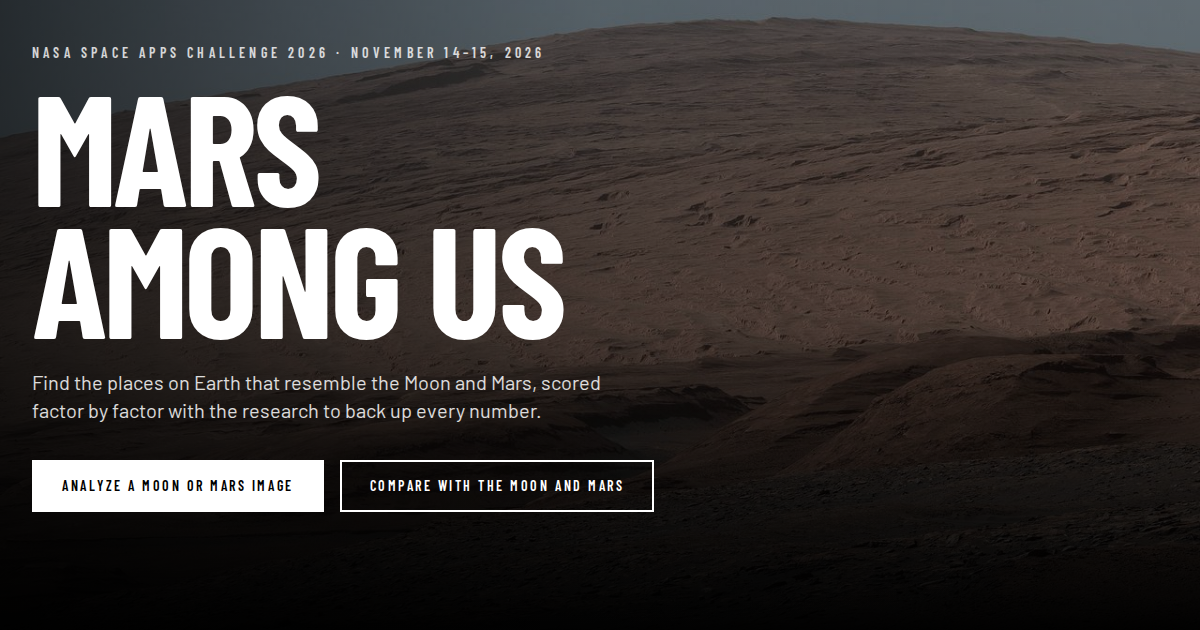
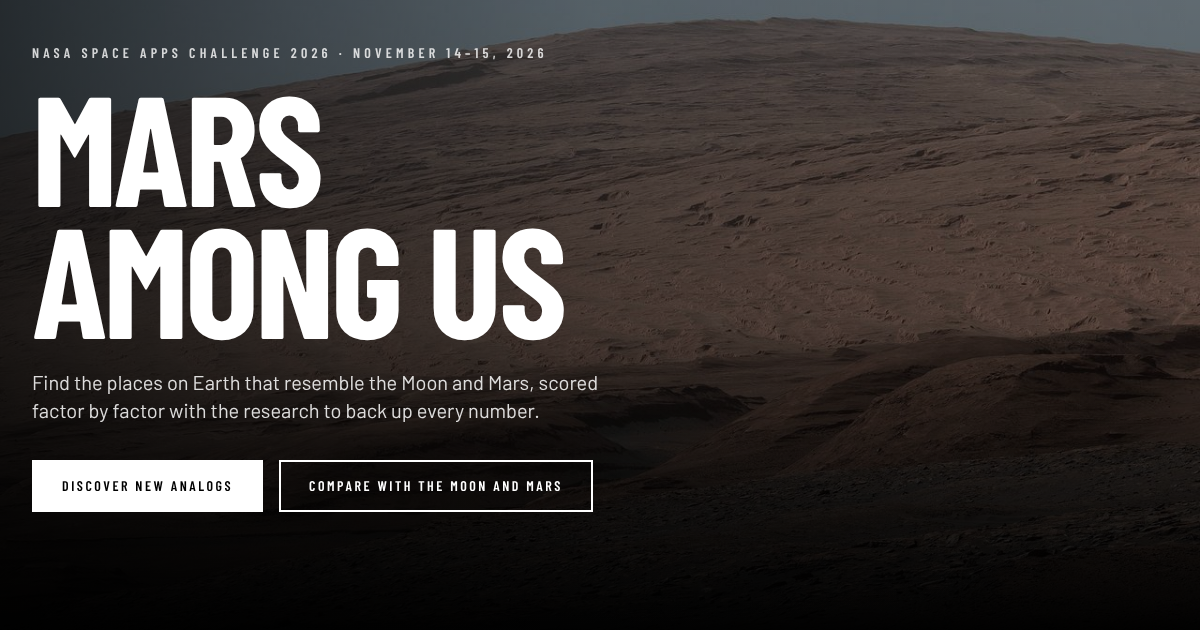
Replace the link preview image, which still showed the Analyze button

diff --git a/CHANGES.md b/CHANGES.md
@@ -132,6 +132,8 @@ landing limit" لهدف مريخي.
 
 **شو انشال:** الصفحة `src/pages/Analyze.tsx`، والرابط `/analyze` (صار بيعرض صفحة "Lost in space")، والقسم تبعها
 بالقائمة وبالرئيسية، والنصوص تبعها بـ `src/config/site.ts`، وسطرها بالـ README.
+وصورة معاينة الرابط (`public/og-image.png`، اللي بتطلع لما حدا يشارك رابط الموقع) انعملت من جديد، لأنها
+كانت فيها زر "Analyze a Moon or Mars image".
 
 **إذا بدك ترجعها بعد الهاكاثون:** الصفحة محفوظة بتاريخ git:
 
